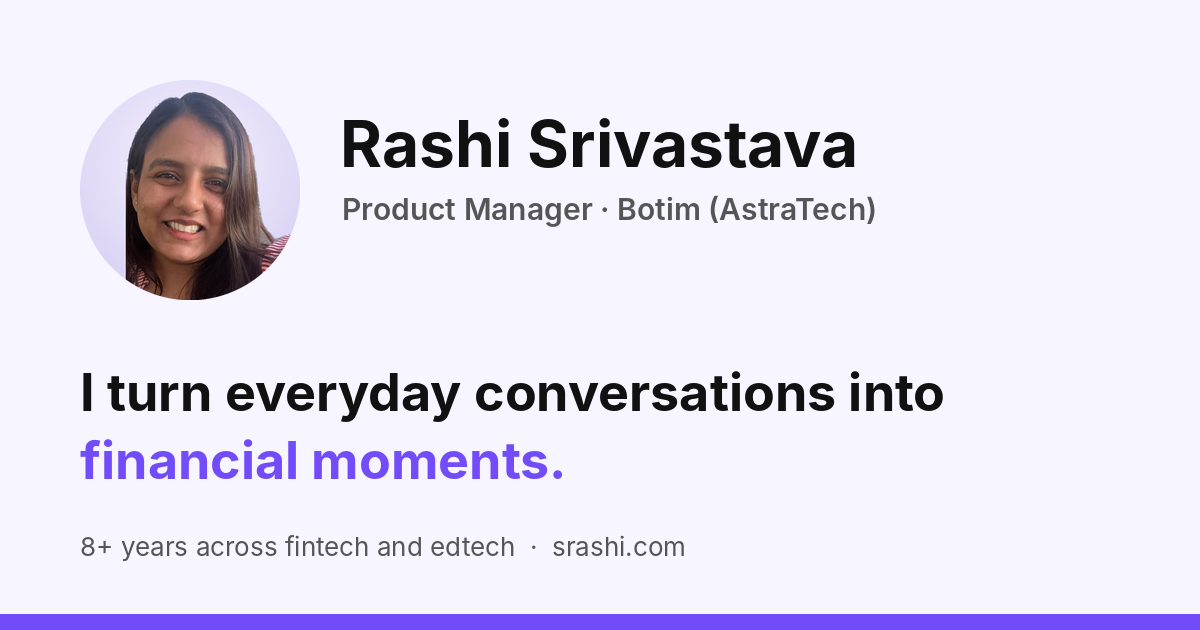
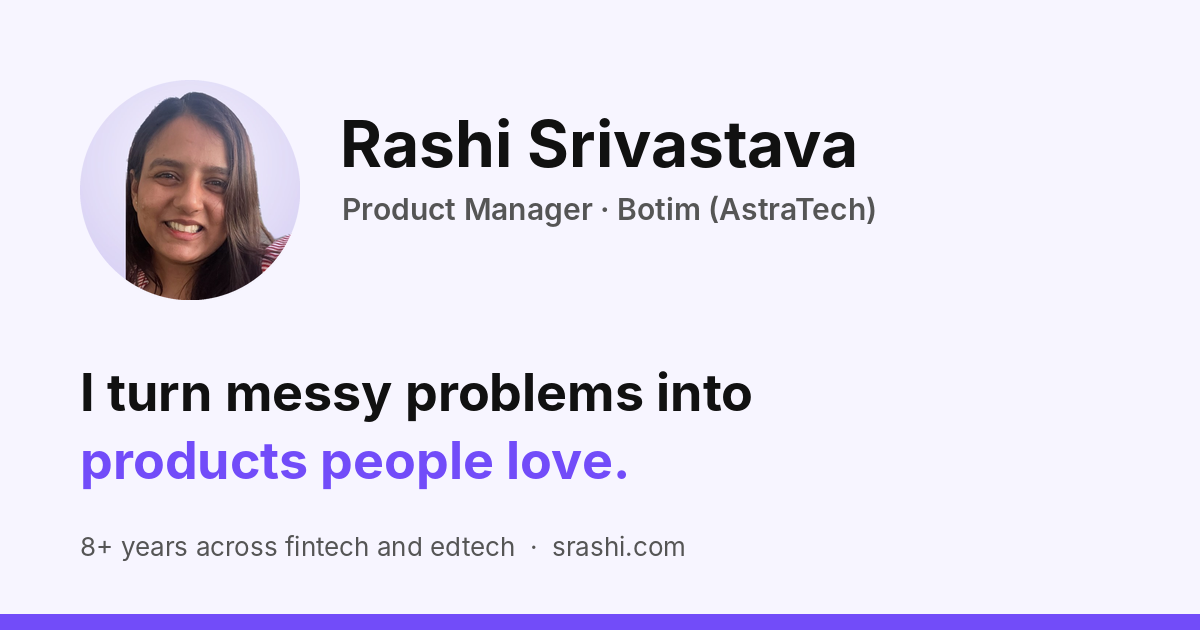
New homepage headline: I turn messy problems into products people love.
Claude-Session: https://claude.ai/code/session_01YMEgGEysux1HsmmisvyuGu

Changed region(s): [[0.0617, 0.573, 0.8017, 0.7841]]

diff --git a/src/site.config.ts b/src/site.config.ts
@@ -8,8 +8,8 @@ export const siteConfig = {
     // Round photo next to the name; set to "" to hide it.
     photo: "/assets/rashi-photo.jpg" as string,
     role: "Product Manager · Botim (AstraTech)",
-    headline: "I turn everyday conversations into",
-    headlineAccent: "financial moments.",
+    headline: "I turn messy problems into",
+    headlineAccent: "products people love.",
     summary:
       "8+ years across fintech and edtech, building 0→1 and scaling to millions of users. Today I lead the Chat, Growth & Cross-Sell and Homepage squads at Botim, the UAE's calling and fintech super-app.",
     cv: "/assets/RashiSrivastava-Resume.pdf",
